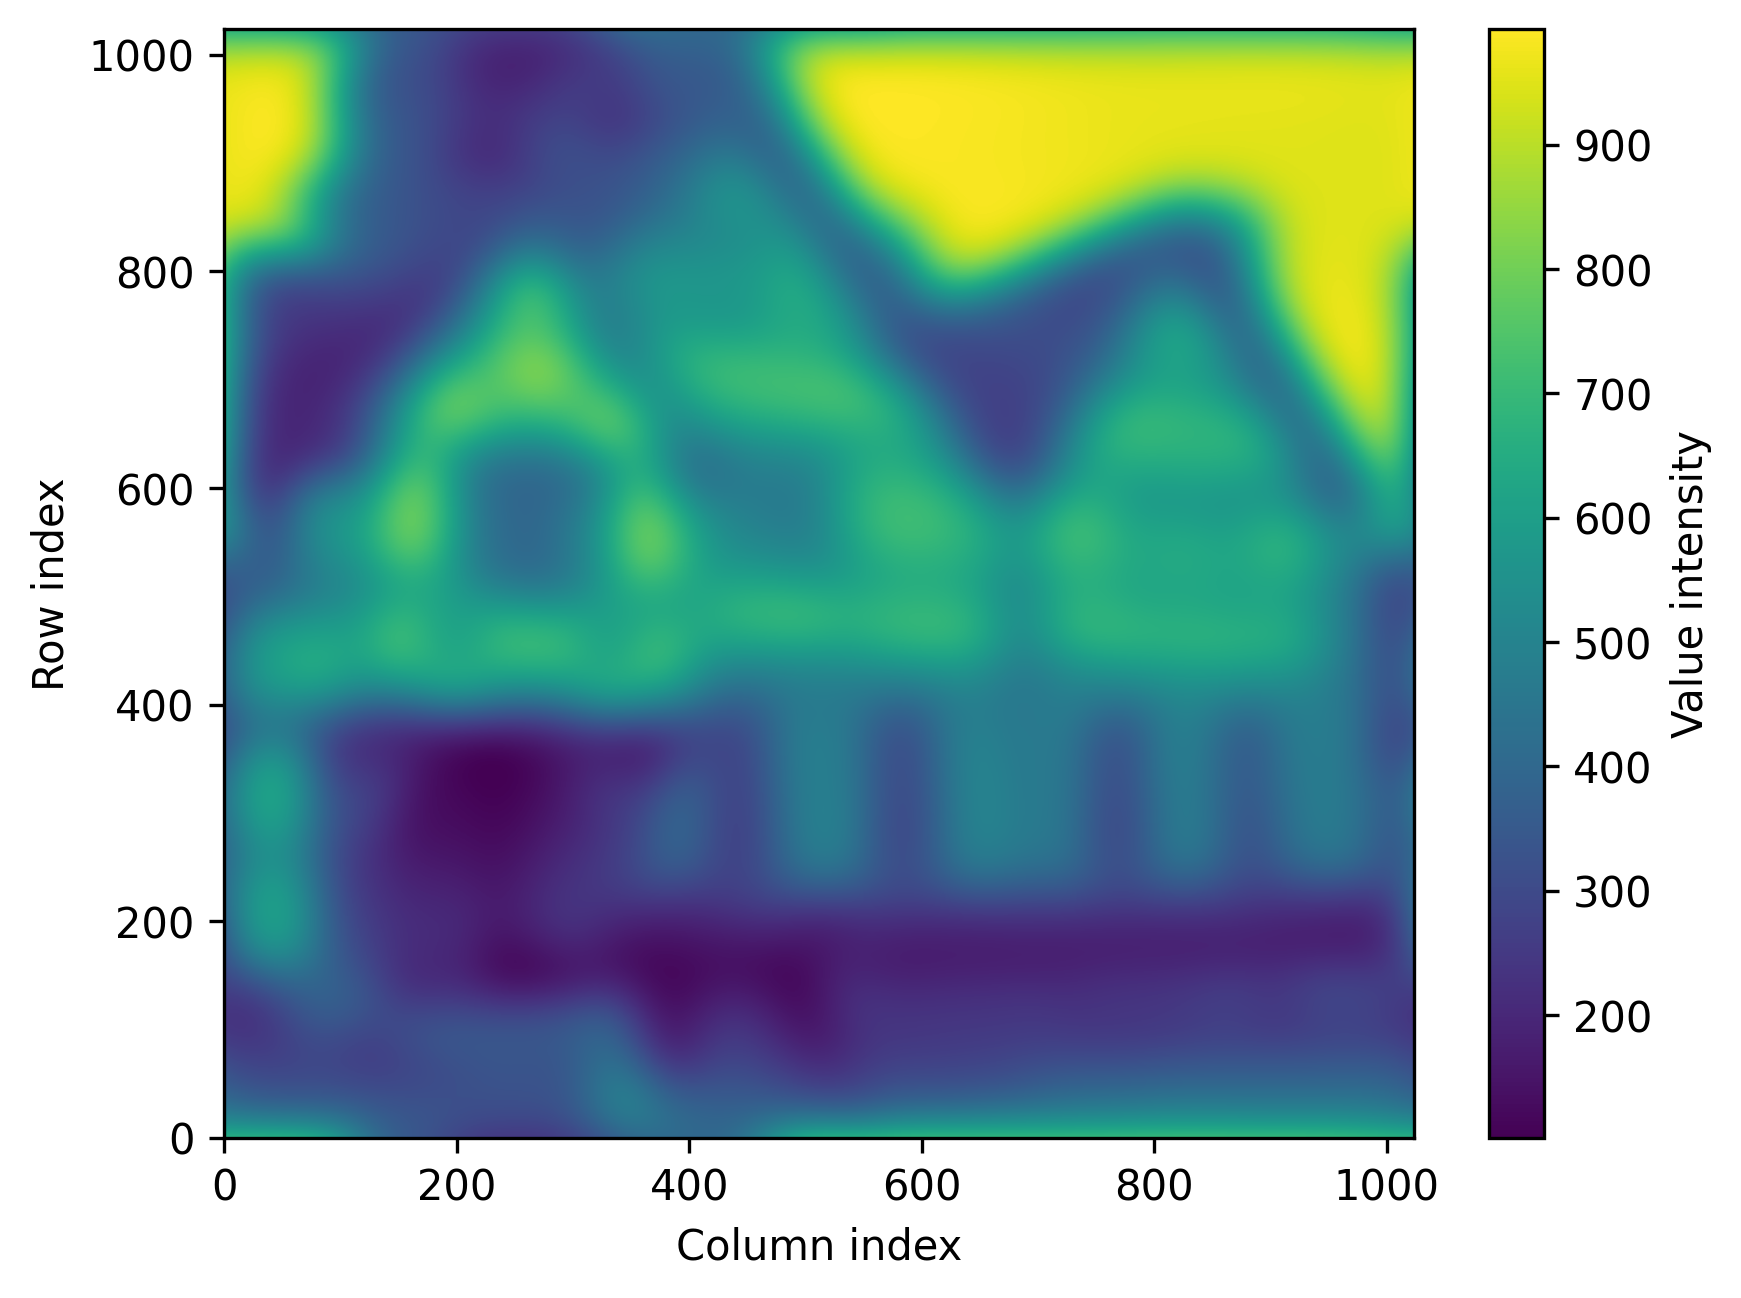
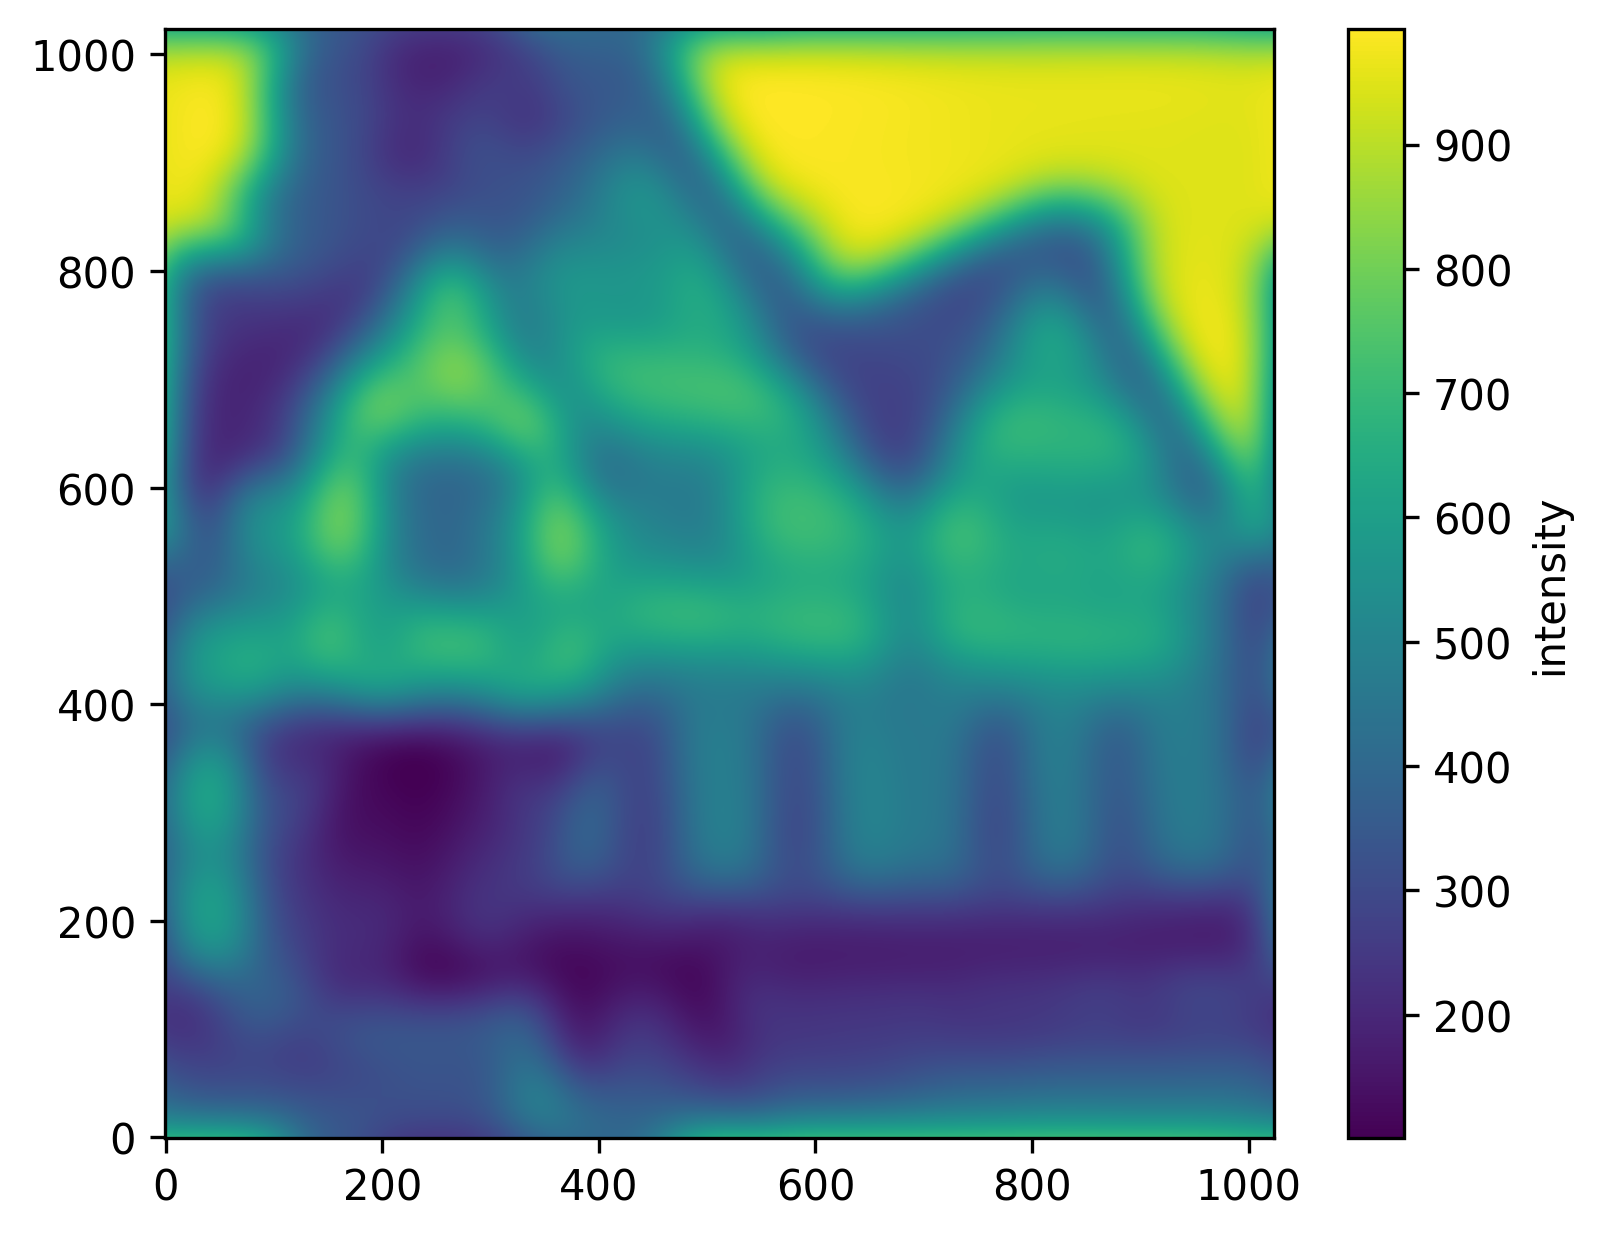
Q1 B

diff --git a/LAB6/common_functions.py b/LAB6/common_functions.py
@@ -1,0 +1,77 @@
+import numpy as np
+
+
+def g(r, t, omega, tau, gamma, v_p, v_f):
+    """
+    Computes acceleration (dv/dt).
+    Parameters:
+        r     : array([x, v])  → position and velocity
+        t     : float          → time
+        omega : float          → oscillation frequency (sqrt(k/m))
+        tau   : float          → fluid damping time-constant
+        gamma : float          → static friction coefficient
+        v_p   : float          → pulling velocity of spring end
+        v_f   : float          → velocity threshold for static friction
+
+    Returns:
+        float : acceleration dv/dt
+    """
+    x, v = r
+    return -(omega ** 2) * (x - v_p * t) - (v / tau) - gamma * np.exp(-np.abs(v) / v_f)
+
+
+def f(r, t, omega=1, tau=1e13, gamma=0, v_p=0, v_f=5):
+    """
+    Returns time derivatives of [x, v] for RK4 integration.
+
+    dx/dt = v
+    dv/dt = g(r, t, ...)
+
+    Parameters:
+        r : np.array([x, v])
+        t : time (float)
+        omega : float          → oscillation frequency (sqrt(k/m))
+        tau   : float          → fluid damping time-constant
+        gamma : float          → static friction coefficient
+        v_p   : float          → pulling velocity of spring end
+        v_f   : float          → velocity threshold for static friction
+
+    Returns:
+        np.array([dx/dt, dv/dt])
+    """
+    x, v = r
+    fx = v
+    fv = g(r, t, omega, tau, gamma, v_p, v_f)
+    return np.array([fx, fv])
+
+
+def rungekutta4(f, r0, t_points, dt):
+    """
+    General RK4 solver for 2D systems of form:
+        dx/dt = v
+        dv/dt = f(x, v, t)
+
+    Parameters:
+        f         : derivative function f(r, t) returning [dx/dt, dv/dt]
+        r0        : np.array([x0, v0])  initial conditions
+        t_points  : np.array of time points
+        dt        : step size (float)
+
+    Returns:
+        x_points  : np.array of x(t)
+        v_points  : np.array of v(t)
+    """
+    r = np.copy(r0)
+    x_points, v_points = [], []
+
+    for t in t_points:
+        x_points.append(r[0])
+        v_points.append(r[1])
+
+        k1 = dt * f(r, t)
+        k2 = dt * f(r + 0.5 * k1, t + 0.5 * dt)
+        k3 = dt * f(r + 0.5 * k2, t + 0.5 * dt)
+        k4 = dt * f(r + k3, t + dt)
+        r += (k1 + 2*k2 + 2*k3 + k4) / 6
+
+    return np.array(x_points), np.array(v_points)

diff --git a/LAB6/Lab_06_Q1_b_1.py b/LAB6/Lab_06_Q1_b_1.py
@@ -1,0 +1,29 @@
+import numpy as np
+import matplotlib.pyplot as plt
+from common_functions import rungekutta4, f  # import the RK4 solver and derivative function
+
+
+if __name__ == "__main__":
+    # -----------------------------
+    # Simulation parameters
+    # -----------------------------
+    a = 1e-4        # start time (s)
+    b = 60          # end time (s)
+    dt = 0.005      # time step (s)
+    t_points = np.arange(a, b, dt)
+    r0 = np.array([1.0, 0.0])  # initial conditions [x0, v0]
+
+    # these conditions plot around 10 oscillations
+
+    # Integrate using RK4
+    x_points, v_points = rungekutta4(f, r0, t_points, dt)
+
+    # Plot results
+    plt.figure(figsize=(8, 5))
+    plt.plot(t_points, x_points, label="x(t) — Displacement")
+    plt.plot(t_points, v_points, label="v(t) — Velocity")
+    plt.xlabel("Time (s)")
+    plt.ylabel("Amplitude")
+    plt.legend()
+    plt.grid(True)
+    plt.show()

diff --git a/LAB6/Lab_06_Q1_b_2.py b/LAB6/Lab_06_Q1_b_2.py
@@ -1,0 +1,27 @@
+import time
+import numpy as np
+from common_functions import rungekutta4, f
+
+
+def energy_change(dt):
+    """
+    Integrate the system for a given dt and return ΔE = max(E) - min(E).
+    This quantifies how well energy is conserved numerically.
+    """
+    a = 1e-4
+    b = 60
+    t_points = np.arange(a, b, dt)
+    r0 = np.array([1.0, 0.0])
+    x, v = rungekutta4(f, r0, t_points, dt)
+    E = v ** 2 + x ** 2
+    return np.max(E) - np.min(E)
+
+
+if __name__ == "__main__":
+    dt_values = [1e-6, 1e-5, 1e-4, 1e-3, 1e-2, 1e-1, 1.0]
+    print("dt (s)\t\tΔE (Energy change)")
+    for dt in dt_values:
+        start_time = time.time()
+        delta_E = energy_change(dt)
+        elapsed = time.time() - start_time
+        print(f"{dt:.1e}\t\t{delta_E:.6e}\t\t{elapsed:.3f}")

diff --git a/LAB6/Lab06_Q1_a.py b/LAB6/Lab06_Q1_a.py
@@ -1,0 +1,28 @@
+import numpy as np
+import matplotlib.pyplot as plt
+
+
+def static_friction(velocity, threshold_velocity, beta):
+    return -beta * np.exp(-np.abs(velocity) / threshold_velocity)
+
+
+def fluid_friction(velocity, alpha):
+    return -alpha * velocity
+
+
+if __name__ == "__main__":
+    # constants
+    beta = 5  # pseudo-static friction coefficient
+    alpha = 0.1 * beta  # viscous coefficient
+    vf = 5  # characteristic velocity
+
+    # velocity range
+    v = np.linspace(0, 8, 3000)
+    F_abs = np.abs(fluid_friction(v, alpha) + static_friction(v, vf, beta))
+
+    # plot
+    plt.plot(v, F_abs, linewidth=2)
+    plt.xlabel("Velocity (m/s)")
+    plt.ylabel("Total friction (|F|) (N)")
+    plt.grid(True)
+    plt.show()

diff --git a/LAB5/LAB05_Q1_b.py b/LAB5/LAB05_Q1_b.py
@@ -32,7 +32,6 @@ if __name__ == "__main__":
     plt.xlim(-5, 5)
     plt.xlabel('x (m)')
     plt.ylabel('Intensity')
-    plt.title('Diffraction Intensity Pattern')
     plt.savefig("Plots/diffraction_pattern.png", dpi=300, bbox_inches="tight")
     plt.grid(True)
     plt.show()

diff --git a/LAB5/LAB05_Q4_a.py b/LAB5/LAB05_Q4_a.py
@@ -11,6 +11,6 @@ if __name__ == "__main__":
     """
     grid = np.flipud(grid)
     plt.imshow(grid, origin='lower')
-    plt.colorbar(label='Value intensity')
+    plt.colorbar(label='intensity')
     plt.savefig("Plots/blurred.png", dpi=300, bbox_inches="tight")
     plt.show()
